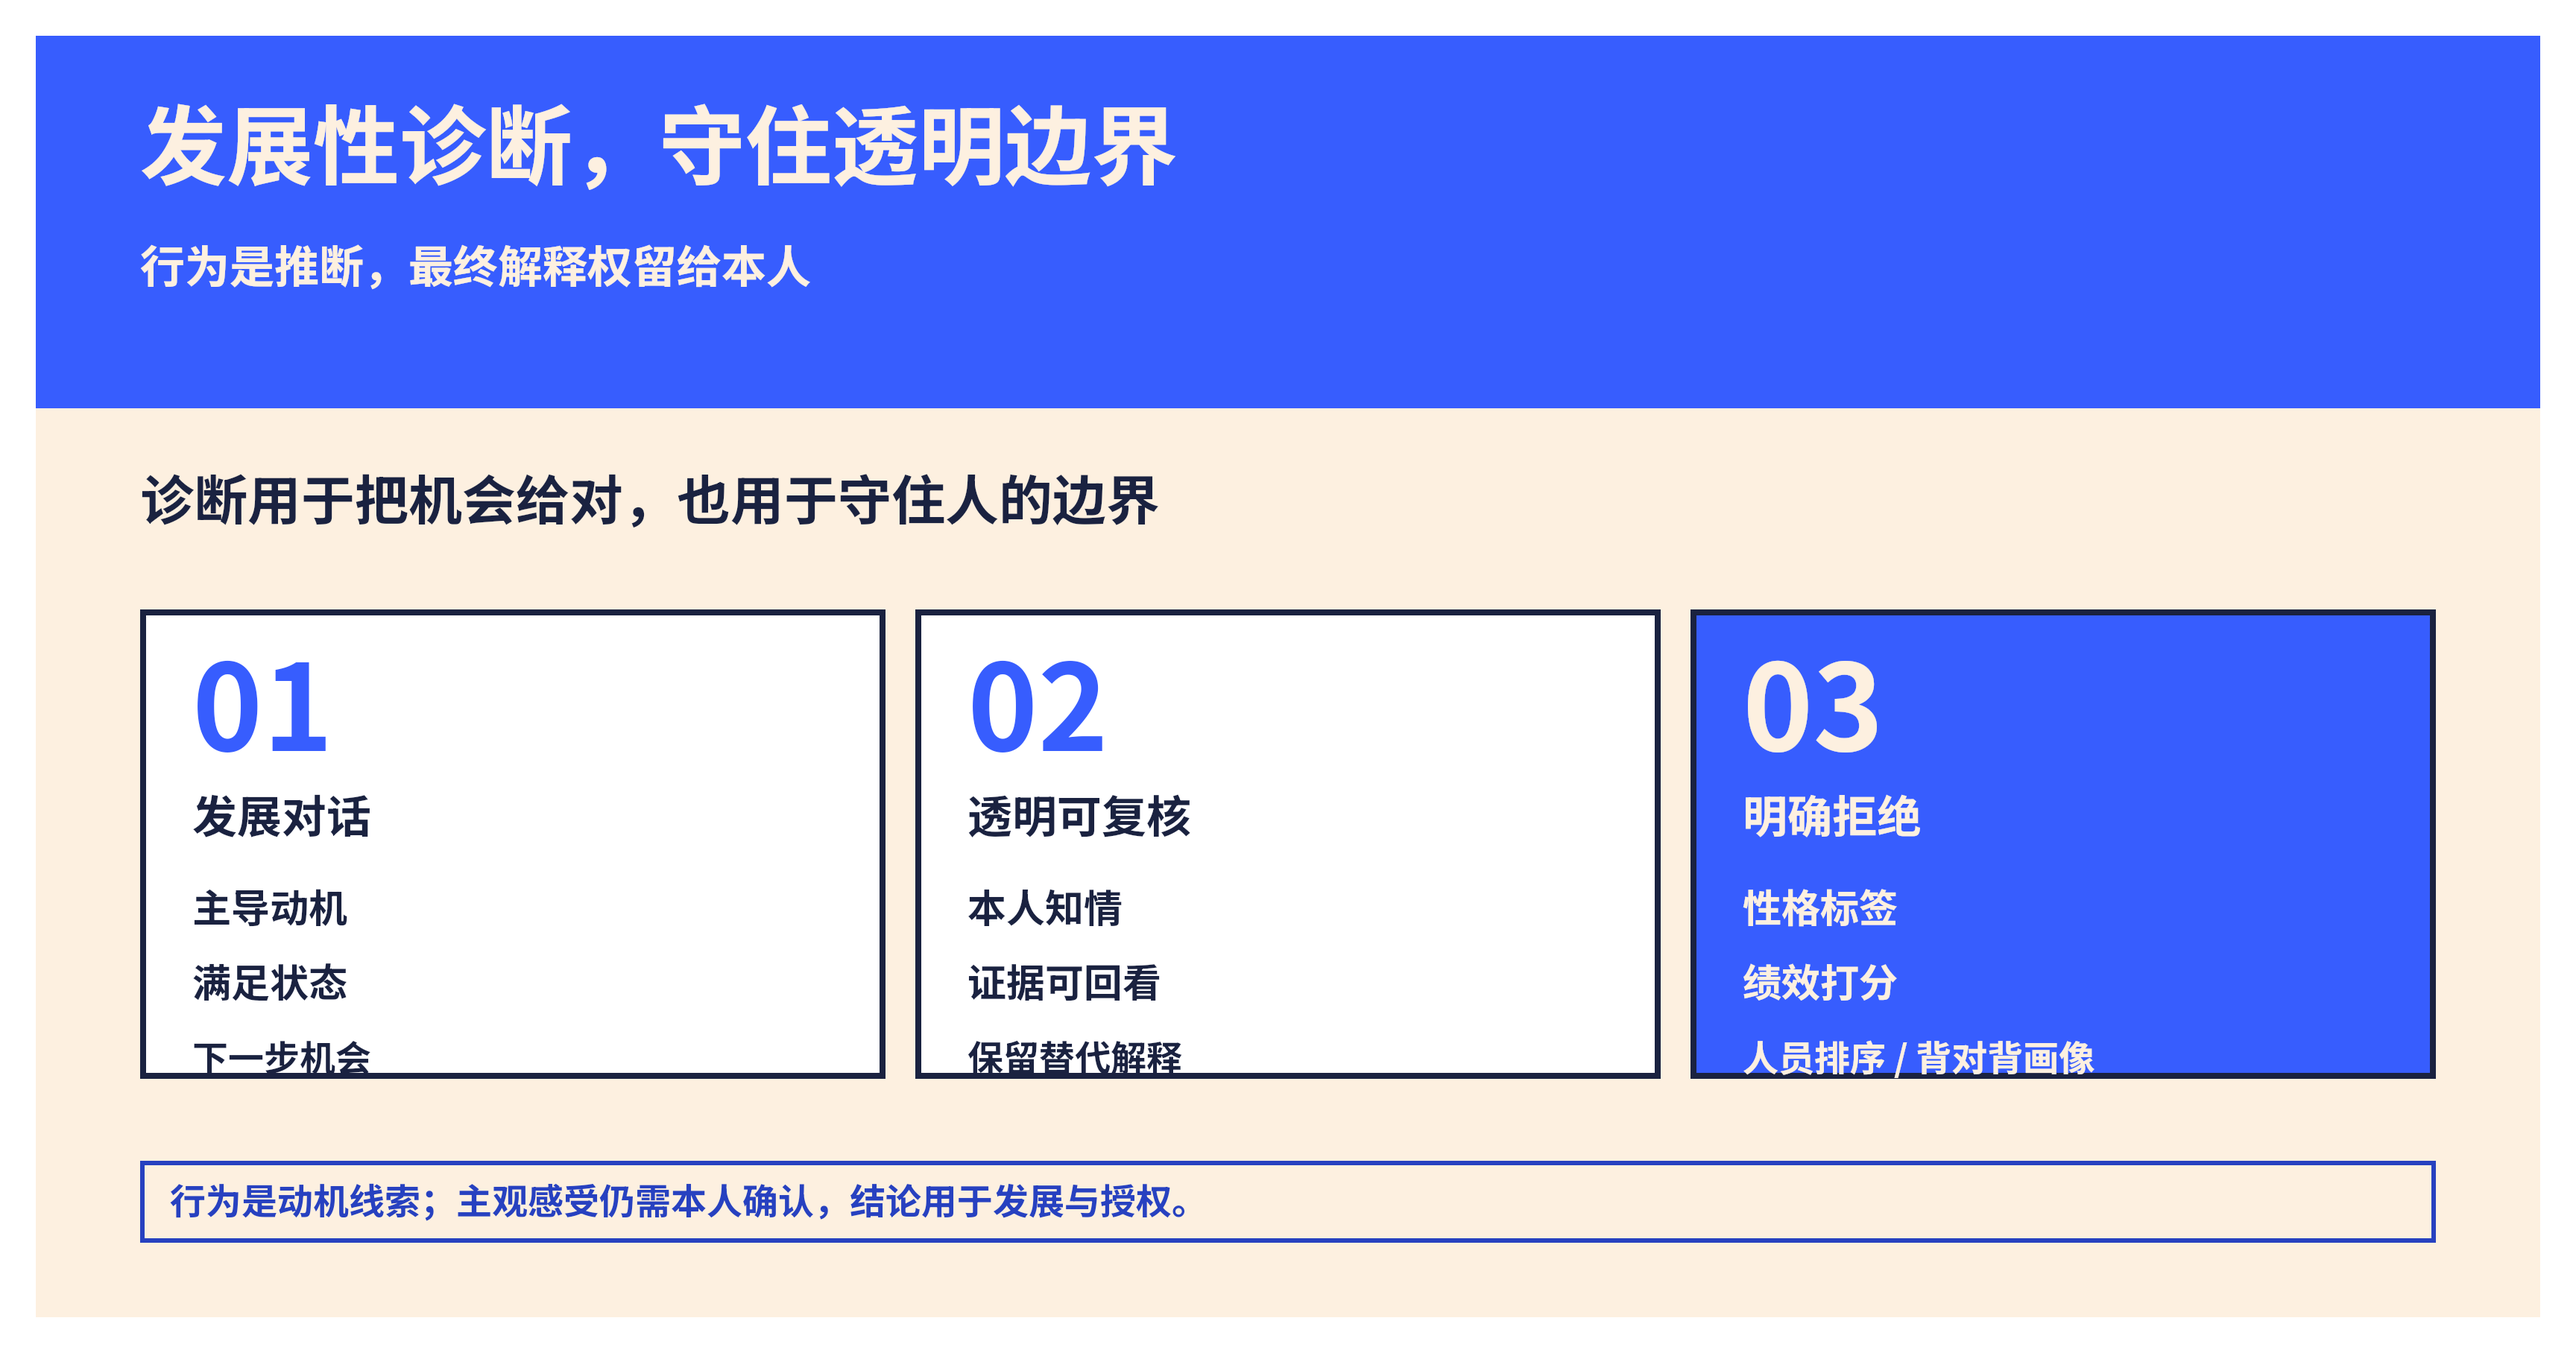
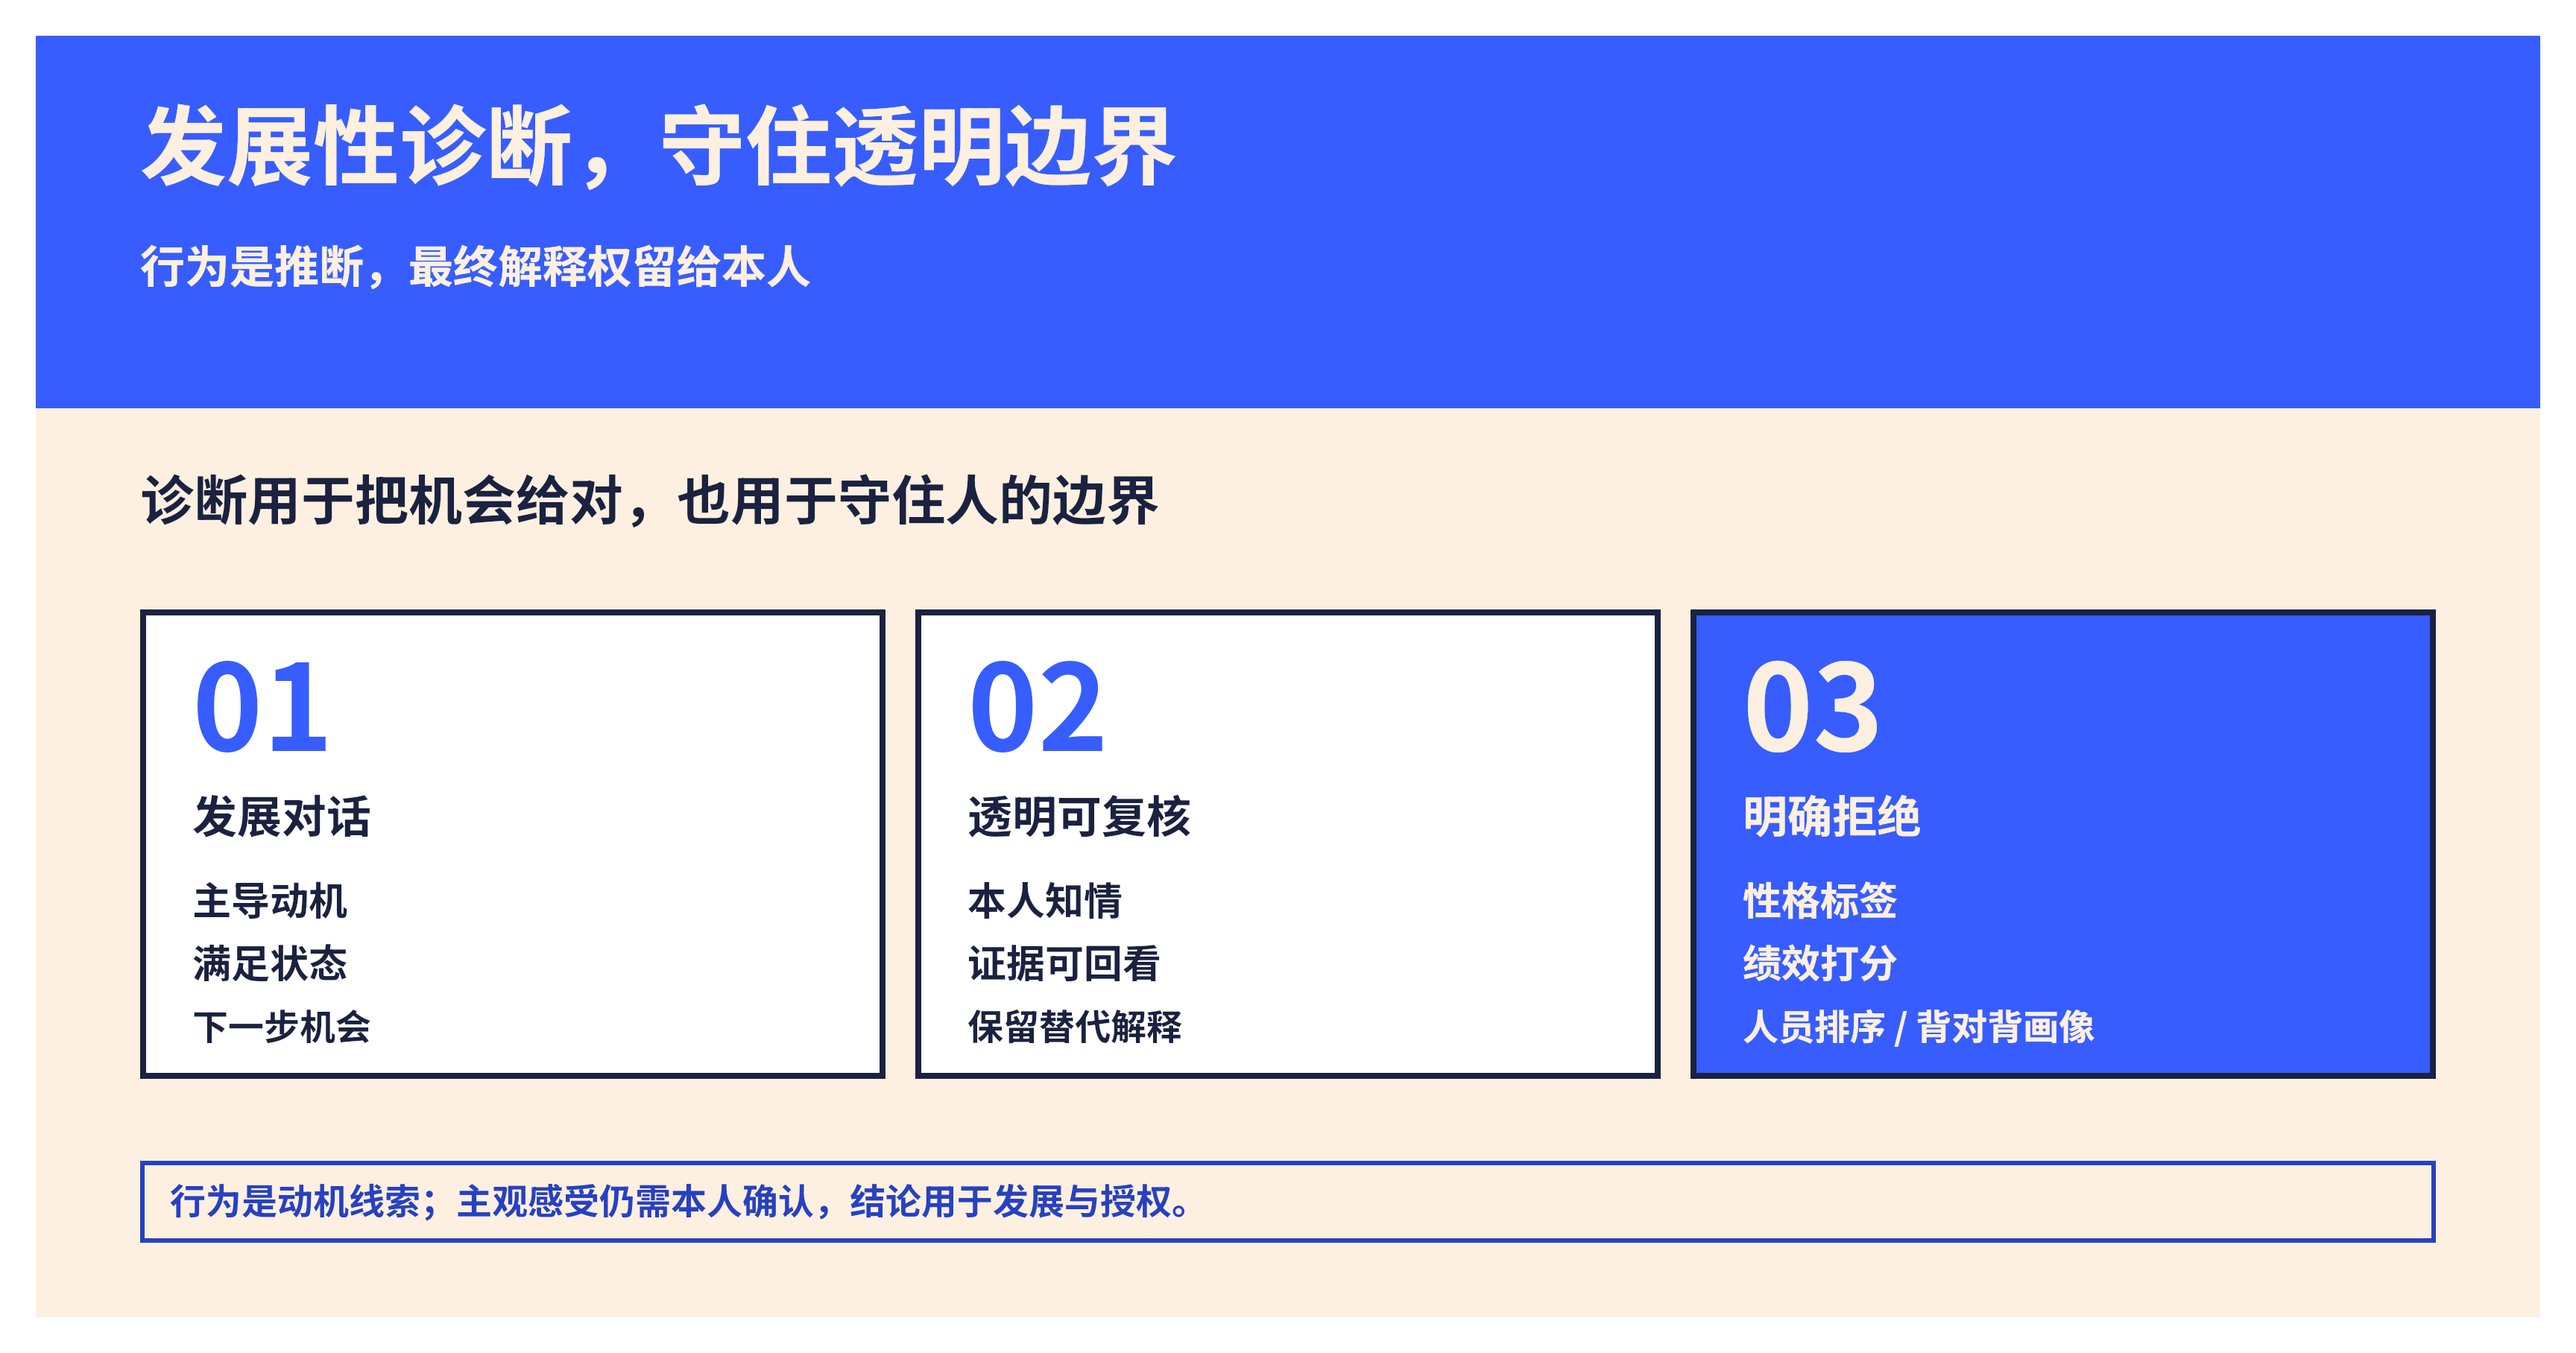
fix: add breathing room inside boundary board cards
Move card text away from the inner border and codify the visual safety zone in the Skill.

Changed region(s): [[0.6562, 0.6476, 0.8125, 0.8018], [0.375, 0.6476, 0.4688, 0.8018], [0.0625, 0.6476, 0.1562, 0.8018]]

diff --git a/scripts/render_boards.py b/scripts/render_boards.py
@@ -150,9 +150,10 @@ def render_boundary(scene: dict) -> tuple[int, int, str]:
             rect(x, 385, 500, 315, fill, NAVY, 4),
             text(x + 35, 480, number, 80, accent),
             text(x + 35, 535, title, 30, fg),
-            text(x + 35, 595, lines[0], 26, fg),
-            text(x + 35, 645, lines[1], 26, fg),
-            text(x + 35, 695, lines[2], 24, fg),
+            # Keep the final baseline safely above the card's inner bottom edge.
+            text(x + 35, 590, lines[0], 26, fg),
+            text(x + 35, 632, lines[1], 26, fg),
+            text(x + 35, 674, lines[2], 24, fg),
         ])
     b.append(footer("行为是动机线索；主观感受仍需本人确认，结论用于发展与授权。"))
     return 1680, 860, "".join(b)

diff --git a/SKILL.md b/SKILL.md
@@ -121,7 +121,7 @@ python3 scripts/diagnose.py --team tests/fixtures/team.json --format markdown
 - 默认规划 4 张由 `geometry-board` 产出的 Geometry Blue（蓝色波点）画板：开头 1 张总览，中段 2–3 张分别解释驱动、状态、场景或行动；用户只要摘要时可降为 1 张。
 - 文档首屏顺序是硬约束：文档标题后立即插入总览画板，画板前不得出现说明段、引言、引用、相关链接、结论表或其他正文；总览画板之后再写开场判断与导航链接。
 - 中段画板按主题分散插入：“驱动方向”“动机状态”“具体下一步”等对应段落之后各放一张，不把多张画板集中追加到文末。
-- 画板内容采用经过真实飞书白板验证的蓝色—米色—深蓝参考版式：`#375dfe` 作为主蓝，`#fdf0e0` 作为底色，`#1a2240` 作为文字与边框，辅以白色信息块；使用大标题、强对比重点块、细边框、充足留白和短标签。总览优先使用左右分栏，证据类内容使用“维度｜行为证据｜判断”表格，状态与行动使用 3 张编号卡片。
+- 画板内容采用经过真实飞书白板验证的蓝色—米色—深蓝参考版式：`#375dfe` 作为主蓝，`#fdf0e0` 作为底色，`#1a2240` 作为文字与边框，辅以白色信息块；使用大标题、强对比重点块、细边框、充足留白和短标签。总览优先使用左右分栏，证据类内容使用“维度｜行为证据｜判断”表格，状态与行动使用 3 张编号卡片。卡片文字与边缘线保持呼吸区，文字不贴边、不压线；底部文字与卡片内底至少保留约 24 px 视觉留白。
 - 四张画板保持统一色彩、字体、线宽和留白规则，至少使用 3 种构图家族；每张只表达一个判断，文字保持短，完整证据留在正文。用户提供参考画板时，先读取并以参考画板的视觉系统覆盖默认样式。
 - 文档开头或“相关链接”区写入 Skill 仓库、报告规范、画板 Skill 和各画板直达链接；链接写成飞书真实超链接，不只显示裸文本。
 

diff --git a/README.md b/README.md
@@ -62,7 +62,7 @@
 
 用户要求报告或沉淀结果时，Skill 可同时交付当前对话中的完整文字总结和一份飞书云文档。文档保存完整证据链、场景化解释和具体行动，并默认关联 4 张 Geometry Blue 画板：总览画板紧跟文档标题，成为正文中的第一个块；中段 2–3 张分别解释驱动、状态、场景或行动。多张画板按主题分散插入，至少使用 3 种构图家族，并写入画板直达链接。
 
-画板默认采用蓝色—米色—深蓝参考版式：`#375dfe` 主蓝、`#fdf0e0` 米色底、`#1a2240` 深蓝文字与边框、白色信息块。总览采用左右分栏，驱动采用“维度｜行为证据｜判断”表格，状态与行动采用 3 张编号卡片；标题、重点块、边框、留白保持统一，正文承载完整证据。
+画板默认采用蓝色—米色—深蓝参考版式：`#375dfe` 主蓝、`#fdf0e0` 米色底、`#1a2240` 深蓝文字与边框、白色信息块。总览采用左右分栏，驱动采用“维度｜行为证据｜判断”表格，状态与行动采用 3 张编号卡片；标题、重点块、边框、留白保持统一，卡片文字与边缘线保留呼吸区，正文承载完整证据。
 
 `主导驱动 → 当前状态 → 真实工作场景 → 下一步动作`
 
@@ -82,7 +82,7 @@
 ## 边界：帮人更懂自己，不给人贴标签
 
 <p align="center">
-  <img src="assets/boards/4-boundary.png?v=20260817" alt="用于发展性对话与授权；拒绝标签、打分、排序、背对背画像" width="90%">
+  <img src="assets/boards/4-boundary.png?v=20260817-2" alt="用于发展性对话与授权；拒绝标签、打分、排序、背对背画像" width="90%">
 </p>
 
 结论用于**发展性对话与授权安排**，明确拒绝：性格标签、绩效打分、人员排序、背对背画像。对话消息只作辅助且他评须透明。详见 [references/boundaries.md](references/boundaries.md)。

diff --git a/AGENT-GUIDE.md b/AGENT-GUIDE.md
@@ -65,7 +65,7 @@ python3 scripts/diagnose.py --team <team.json> --format markdown
 
 ### 6. 飞书云文档与 Geometry Blue 画板
 
-用户要求生成报告、沉淀结果或飞书云文档时，同时产出当前对话文字总结和飞书云文档。使用 `lark-doc` 创建/更新文档，使用本人 `user` 身份；默认放置 4 张 `geometry-board` 产出的 Geometry Blue 画板：总览画板紧跟文档标题，成为第一个正文块；中段 2–3 张分别贴合驱动、状态、场景/行动。多张画板按正文主题分散插入，至少使用 3 种构图家族，并在文档中写入真实可点击的资源链接。默认采用蓝色—米色—深蓝参考版式：`#375dfe` 主蓝、`#fdf0e0` 米色底、`#1a2240` 深蓝文字与边框、白色信息块；用户提供参考画板时，以参考版式为准。
+用户要求生成报告、沉淀结果或飞书云文档时，同时产出当前对话文字总结和飞书云文档。使用 `lark-doc` 创建/更新文档，使用本人 `user` 身份；默认放置 4 张 `geometry-board` 产出的 Geometry Blue 画板：总览画板紧跟文档标题，成为第一个正文块；中段 2–3 张分别贴合驱动、状态、场景/行动。多张画板按正文主题分散插入，至少使用 3 种构图家族，并在文档中写入真实可点击的资源链接。默认采用蓝色—米色—深蓝参考版式：`#375dfe` 主蓝、`#fdf0e0` 米色底、`#1a2240` 深蓝文字与边框、白色信息块；卡片文字和边缘线保持约 24 px 视觉安全区，底部文字不能压到边框；用户提供参考画板时，以参考版式为准。
 
 创建空白画板块后记录 `block_token`，写入 SVG/Scene JSON，随后回读文档大纲、画板资源和插入点前后文本。交付时分别报告文字、文档、画板和回读验证状态。权限不足时保留文字和本地源文件，不换 bot 身份绕过权限。
 

diff --git a/references/report-and-delivery.md b/references/report-and-delivery.md
@@ -56,7 +56,7 @@
 
 画板标题写结论，节点写短动作，正文保留证据细节。画板只表达结构，不把完整证据链缩成密集小字。
 
-默认视觉系统采用参考版式：主蓝 `#375dfe`、米色底 `#fdf0e0`、深蓝文字/边框 `#1a2240`、白色信息块；大标题负责结论，蓝色重点块负责主判断，细边框负责分组，留白负责层级。总览使用左右分栏，左侧放主题与工作对象，右侧放问题和结论；驱动画板使用“维度｜典型行为｜满足线索”的证据表；状态与行动画板使用 3 张编号卡片。至少使用 3 种构图家族，保持字体、边框和间距一致。用户提供参考画板时，先导出并读取参考画板，按参考版式覆盖默认样式。
+默认视觉系统采用参考版式：主蓝 `#375dfe`、米色底 `#fdf0e0`、深蓝文字/边框 `#1a2240`、白色信息块；大标题负责结论，蓝色重点块负责主判断，细边框负责分组，留白负责层级。总览使用左右分栏，左侧放主题与工作对象，右侧放问题和结论；驱动画板使用“维度｜典型行为｜满足线索”的证据表；状态与行动画板使用 3 张编号卡片。至少使用 3 种构图家族，保持字体、边框和间距一致。卡片文字与边缘线之间保留至少约 24 px 的视觉安全区，尤其检查最后一行文字的基线与卡片内底，确保文字不贴边、不压线。用户提供参考画板时，先导出并读取参考画板，按参考版式覆盖默认样式。
 
 写入流程固定为：
 
